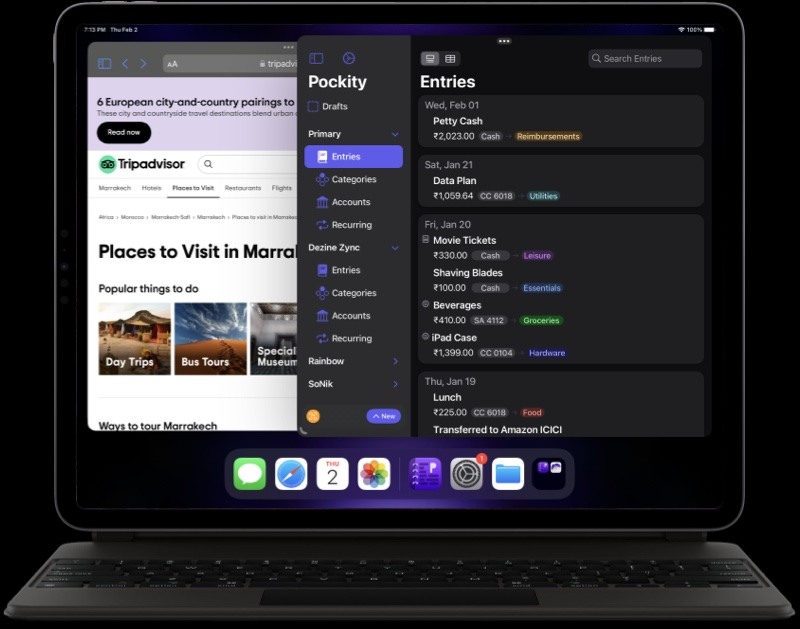
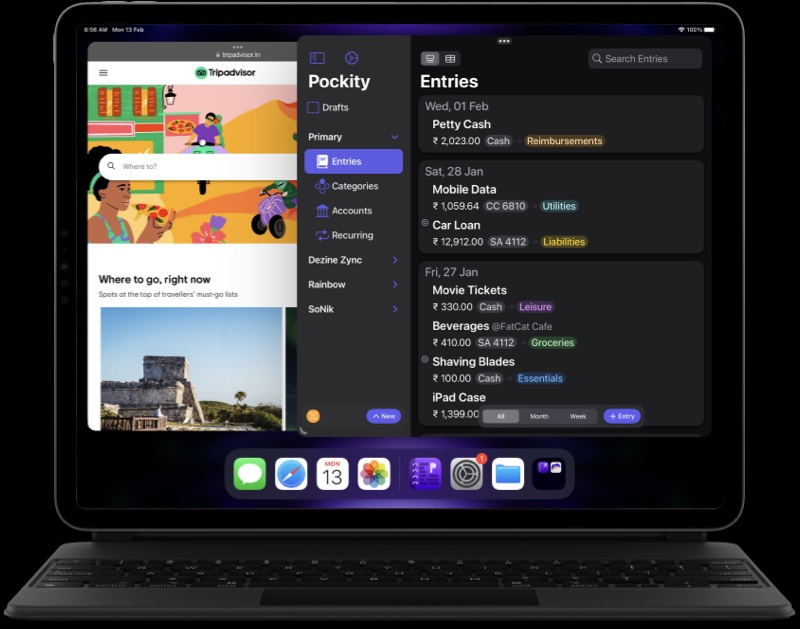
various
- captions
- updated assets

diff --git a/_layouts/home.html b/_layouts/home.html
@@ -17,21 +17,6 @@
   <main>
     {{ content }}
 
-    <div id="stagemanager" class="container-fluid no-padding">
-      <div class="hero-image bottom">
-        <picture>
-          <source media="(max-width: 600px)" srcset="/assets/images/home/stagemanager-400w.jpg 1x, /assets/images/home/stagemanager-800w.jpg 2x, /assets/images/home/stagemanager-1600w.jpg 3x" />
-          <source media="(min-width: 601px) and (max-width: 1130px)" srcset="/assets/images/home/stagemanager-800w.jpg 1x, /assets/images/home/stagemanager-1600w.jpg 2x, /assets/images/home/stagemanager@3x.jpg 3x" />
-          <img src="/assets/images/home/stagemanager.jpg" srcset="/assets/images/home/stagemanager@2x.jpg 2x, /assets/images/home/stagemanager@3x.jpg 3x" alt="Pockity running on iPadOS in Stage Manager Mode" width="1018" height="801" />
-        </picture>
-      </div>
-
-      <hgroup class="container readable">
-        <h3 class="section-header-l vault">Stage Manager</h3>
-        <p>The perfect producivity companion works perfectly with Pockity, with support for multiple windows, keyboard & trackpad, and keyboard shortcuts.</p>
-      </hgroup>
-    </div>
-
     {%- include storebuttons.html -%}
   </main>
 

diff --git a/_sass/layouts/home.scss b/_sass/layouts/home.scss
@@ -133,6 +133,39 @@ body.home {
     }
   }
 
+  .section-title {
+    text-transform: uppercase;
+    letter-spacing: 0.025rem;
+    font-size: 0.7rem;
+    font-weight: 600;
+    color: var(--dz-subtext-color);
+
+    &.spacer-bot {
+      display: inline-block;
+      margin-bottom: 1rem;
+    }
+  }
+
+  #cap-editor {
+    @include gradient-text-linear(0deg, #8659FF, #2D56FF);
+  }
+
+  #cap-transactions {
+   @include gradient-text-linear(0deg, #FF7559, #FF2DB7); 
+  }
+
+  #cap-recurring {
+   @include gradient-text-linear(0deg, #3DCD14, #2DB8FF); 
+  }
+
+  #cap-notifications {
+   @include gradient-text-linear(0deg, #FF5A5A, #FFA752); 
+  }
+
+  #cap-stagemanager {
+    @include gradient-text-linear(90deg, #333, #ccc); 
+  }
+
   #tiny-feat {
     text-align: center;
   }

diff --git a/_includes/support.html b/_includes/support.html
@@ -1,6 +1,7 @@
 <aside id="support">
   <div class="container">
     <header>
+      <small class="section-title spacer-bot">Support</small>
       <h3 class="section-header-xl vault">Have a Question?</h3>
       <p>Pockity has a comprehensive list of Frequently Asked Questions documented and grouped together to help you. Have a look at the docs, and if you still have questions, you can always contact me at <a href="mailto:support@pockity.app">support@pockity.app</a>.</p>
     </header>
